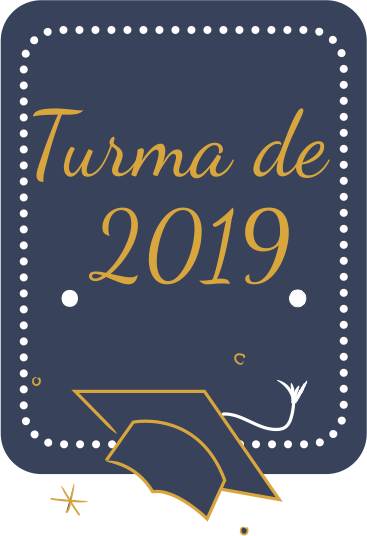
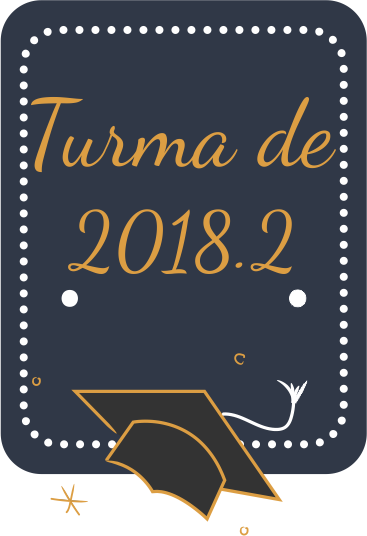
Deployed 0acca31 with MkDocs version: 1.0.4

diff --git a/Convite/agradecimentos/index.html b/Convite/agradecimentos/index.html
@@ -441,19 +441,19 @@ body {
 <h1 style="font-family:'Dancing Script', cursive; color:#38425B;"><font size="8"><strong>À Deus</strong></font></h1>
 
 <p style="text-align: justify;">
-Falar de Deus, é falar de amor, amor esse infinito, único, fiel e verdadeiro. Foi por amor que Ele nos concedeu a vida, nos permitiu estarmos aqui hoje para juntos celebrarmos mais uma vitória em nossas vidas. </p>
+ Falar de Deus, é falar de amor, amor esse infinito, único, fiel e verdadeiro. Foi por amor que Ele nos concedeu a vida, nos permitiu estarmos aqui hoje para juntos celebrarmos mais uma vitória em nossas vidas.  </p>
 
 <p style="text-align: justify;">
-Deus se fez presente desde o início, antes mesmo de almejarmos essa graduação. Ele em sua misericórdia já tinha escrito em nossa história de vida uma concretização de um sonho tão lindo, e por isso então nos concedeu a oportunidade de trilharmos esse caminho para chegarmos até aqui.</p> 
+Deus se fez presente desde o início, antes mesmo de almejarmos essa graduação. Ele em sua misericórdia já tinha escrito em nossa história de vida uma concretização de um sonho tão lindo, e por isso então nos concedeu a oportunidade de trilharmos esse caminho para chegarmos até aqui. </p> 
 
 <p style="text-align: justify;">
-Não foram dias fácies, como dizem, não foram apenas flores, mas a presença de espinhos foi grande e constante, nossa! e como foi, muitas dificuldades e desafios, e até mesmo perdas. Mesmo diante de tudo isso, Deus nos fortaleceu, em alguns momentos vinha o desejo de desistir, de não continuar, mas por termos um Senhor que rege as nossas vidas, não faltaram pessoas, digo aqui, anjos enviados por Ele para nos darmos uma palavra de incentivo e sobretudo ser um ombro amigo. </p>
+Não foram dias fácies, como dizem, não foram apenas flores, mas a presença de espinhos foi grande e constante, nossa! e como foi, muitas dificuldades e desafios, e até mesmo perdas. Mesmo diante de tudo isso, Deus nos fortaleceu, em alguns momentos vinha o desejo de desistir, de não continuar, mas por termos um Senhor que rege as nossas vidas, não faltaram pessoas, digo aqui, anjos enviados por Ele para nos darmos uma palavra de incentivo e sobretudo ser um ombro amigo.  </p>
 
 <p style="text-align: justify;">
-Todo louvor e toda honra damos a Ele, Senhor de Amor e Misericórdia, Pai de todos nós, nosso Mestre e Senhor, louvamos e agradecemos por não ter nos deixado sós, mas a todo momento ser presente em nossa caminhada, louvamos e agradecemos a ti Senhor por ser fiel, por termos vencido todas as barreiras, todas as noites mal dormidas, todo sufoco nos cálculos da vida rs, todas as  dores de cabeça e preocupações com atividades, avaliações e trabalhos e até com o ava que ficava fora do sistema.</p> 
+Todo louvor e toda honra damos a Ele, Senhor de Amor e Misericórdia, Pai de todos nós, nosso Mestre e Senhor, louvamos e agradecemos por não ter nos deixado sós, mas a todo momento ser presente em nossa caminhada, louvamos e agradecemos a ti Senhor por ser fiel, por termos vencido todas as barreiras, todas as noites mal dormidas, todo sufoco nos cálculos da vida rs, todas as  dores de cabeça e preocupações com atividades, avaliações e trabalhos e até com o ava que ficava fora do sistema. </p> 
 
 <p style="text-align: justify;">
-Muito Obrigada meu Deus, pelas amizades conquistadas, pela segunda família que adquirimos, pelos risos e sobretudo pelos choros compartilhados. Glória a Ti Senhor por cuidar de nós a todo instante, e muito obrigada por hoje assenhorear-se um sonho, que é tanto meu quanto de meus pais e de minha família, Ser Graduada em Matemática. 
+Muito Obrigada meu Deus, pelas amizades conquistadas, pela segunda família que adquirimos, pelos risos e sobretudo pelos choros compartilhados. Glória a Ti Senhor por cuidar de nós a todo instante, e muito obrigada por hoje assenhorear-se um sonho, que é tanto meu quanto de meus pais e de minha família, Ser Graduada em Matemática.  
 </p>
 
 
@@ -468,15 +468,36 @@ Texto da mensagem
 <h1 style="font-family:'Dancing Script', cursive; color:#38425B;"><font size="8"><strong>Aos Pais</strong></font></h1>
 
 <p style="text-align: justify;">
-Texto da mensagem 
+
+</p>
+
+<p style="text-align: justify;">
+Hoje é um dia especial na vida de todos nós, e compartilhar esse dia com aqueles que nos deram a vida e sempre lutaram para que nossas conquistas acontecessem é maravilhoso.</p>
+
+<p style="text-align: justify;">
+Pais, vocês nos acompanharam desde os primeiros passos no caminho da educação. Nos ensinaram valores, responsabilidades, respeito, amor e muito mais, o que nos transformou no que somos hoje.</p>
+
+<p style="text-align: justify;">
+Agradecer é muito pouco, pois vocês são inspiração e força para nossas vitórias, são a luz de nosso caminho a energia que nos move.</p>
+
+<p style="text-align: justify;">
+Nessa longa caminhada que hoje findamos com vitória vocês sempre estiveram presentes nos dando todo o suporte e apoio necessário.</p>
+
+<p style="text-align: justify;">
+Obrigada por nos darem a vida e nos ensinarem a lutar por ela. Sem vocês nossa vitória não seria possível. </p>
+
+<p style="text-align: justify;">
+Obrigada pelo amor incondicional e pela fé em nossa capacidade.
 </p>
 
 
 <h1 style="font-family:'Dancing Script', cursive; color:#38425B;"><font size="8"><strong>Aos Mestres</strong></font></h1>
 
 <p style="text-align: justify;">
-Texto da mensagem 
+
 </p>
+
+
 
 </div>
                 

diff --git a/Convite/mensagem-comissao/index.html b/Convite/mensagem-comissao/index.html
@@ -467,18 +467,56 @@ body {
 
 
 <p style="text-align: justify;">
-Hoje é um dia especial na vida de todos nós, e compartilhar esse dia com aqueles que nos deram a vida e sempre lutaram para que nossas conquistas acontecessem é maravilhoso.</p>
+</p>
 
 <p style="text-align: justify;">
-Pais, vocês nos acompanharam desde os primeiros passos no caminho da educação. Nos ensinaram valores, responsabilidades, respeito, amor e muito mais, o que nos transformou no que somos hoje.</p>
+Andei…</p>
 
 <p style="text-align: justify;">
-Agradecer é muito pouco, pois vocês são inspiração e força para nossas vitórias, são a luz de nosso caminho a energia que nos move.
-Nessa longa caminhada que hoje findamos com vitória vocês sempre estiveram presentes nos dando todo o suporte e apoio necessário.
-Obrigada por nos darem a vida e nos ensinarem a lutar por ela. Sem vocês nossa vitória não seria possível. </p>
+Por caminhos difíceis, eu sei.</p>
 
 <p style="text-align: justify;">
-Obrigada pelo amor incondicional e pela fé em nossa capacidade.</p>
+Mas olhando o chão sob meus pés, vejo a vida correr.</p>
+
+<p style="text-align: justify;">
+E assim, a cada passo que der,</p>
+
+<p style="text-align: justify;">
+Tentarei fazer o melhor que puder.</p>
+
+<p style="text-align: justify;">
+Aprendi…</p>
+
+<p style="text-align: justify;">
+Não tanto quanto quis, mas vi que, conhecendo</p>
+
+<p style="text-align: justify;">
+O universo ao meu redor, aprendo a me conhecer melhor;</p>
+
+<p style="text-align: justify;">
+E assim escutarei o tempo que me ensinará</p>
+
+<p style="text-align: justify;">
+A tomar a certa decisão a cada momento.</p>
+
+<p style="text-align: justify;">
+E partirei…</p>
+
+<p style="text-align: justify;">
+Em busca de muitos ideais,</p>
+
+<p style="text-align: justify;">
+Mas sei que hoje se encontram no meu passado, presente e futuro.</p>
+
+<p style="text-align: justify;">
+Hoje sinto em mim a emoção da despedida.</p>
+
+<p style="text-align: justify;">
+Hoje é o ponto de chegada.</p>
+
+<p style="text-align: justify;">
+Mas ao mesmo tempo, tempo de partida.</p>
+
 
 
 </div>

diff --git a/index.html b/index.html
@@ -450,7 +450,7 @@ div.c {
 
 <h1 style="font-family:'Dancing Script', cursive; color:#38425B;"><font size="8"><strong>Matemática EaD</strong></font></h1>
 
-<h1 style="font-family:'Dancing Script', cursive; color:#38425B;"><font size="8"><strong>2019</strong></font></h1>
+<h1 style="font-family:'Dancing Script', cursive; color:#38425B;"><font size="8"><strong>2018.2</strong></font></h1>
 
 
 

diff --git a/Convite/formandos-polo-ipira/index.html b/Convite/formandos-polo-ipira/index.html
@@ -508,7 +508,7 @@ div.c {
 <img src="../imagens/ipira.png" alt="Avatar" style="width:100%">
 </div>
 
-
+<br>
 
 <div class="c"><strong>Colação de Grau: 13 de junho de 2019 às 19h.</strong></div>
 
